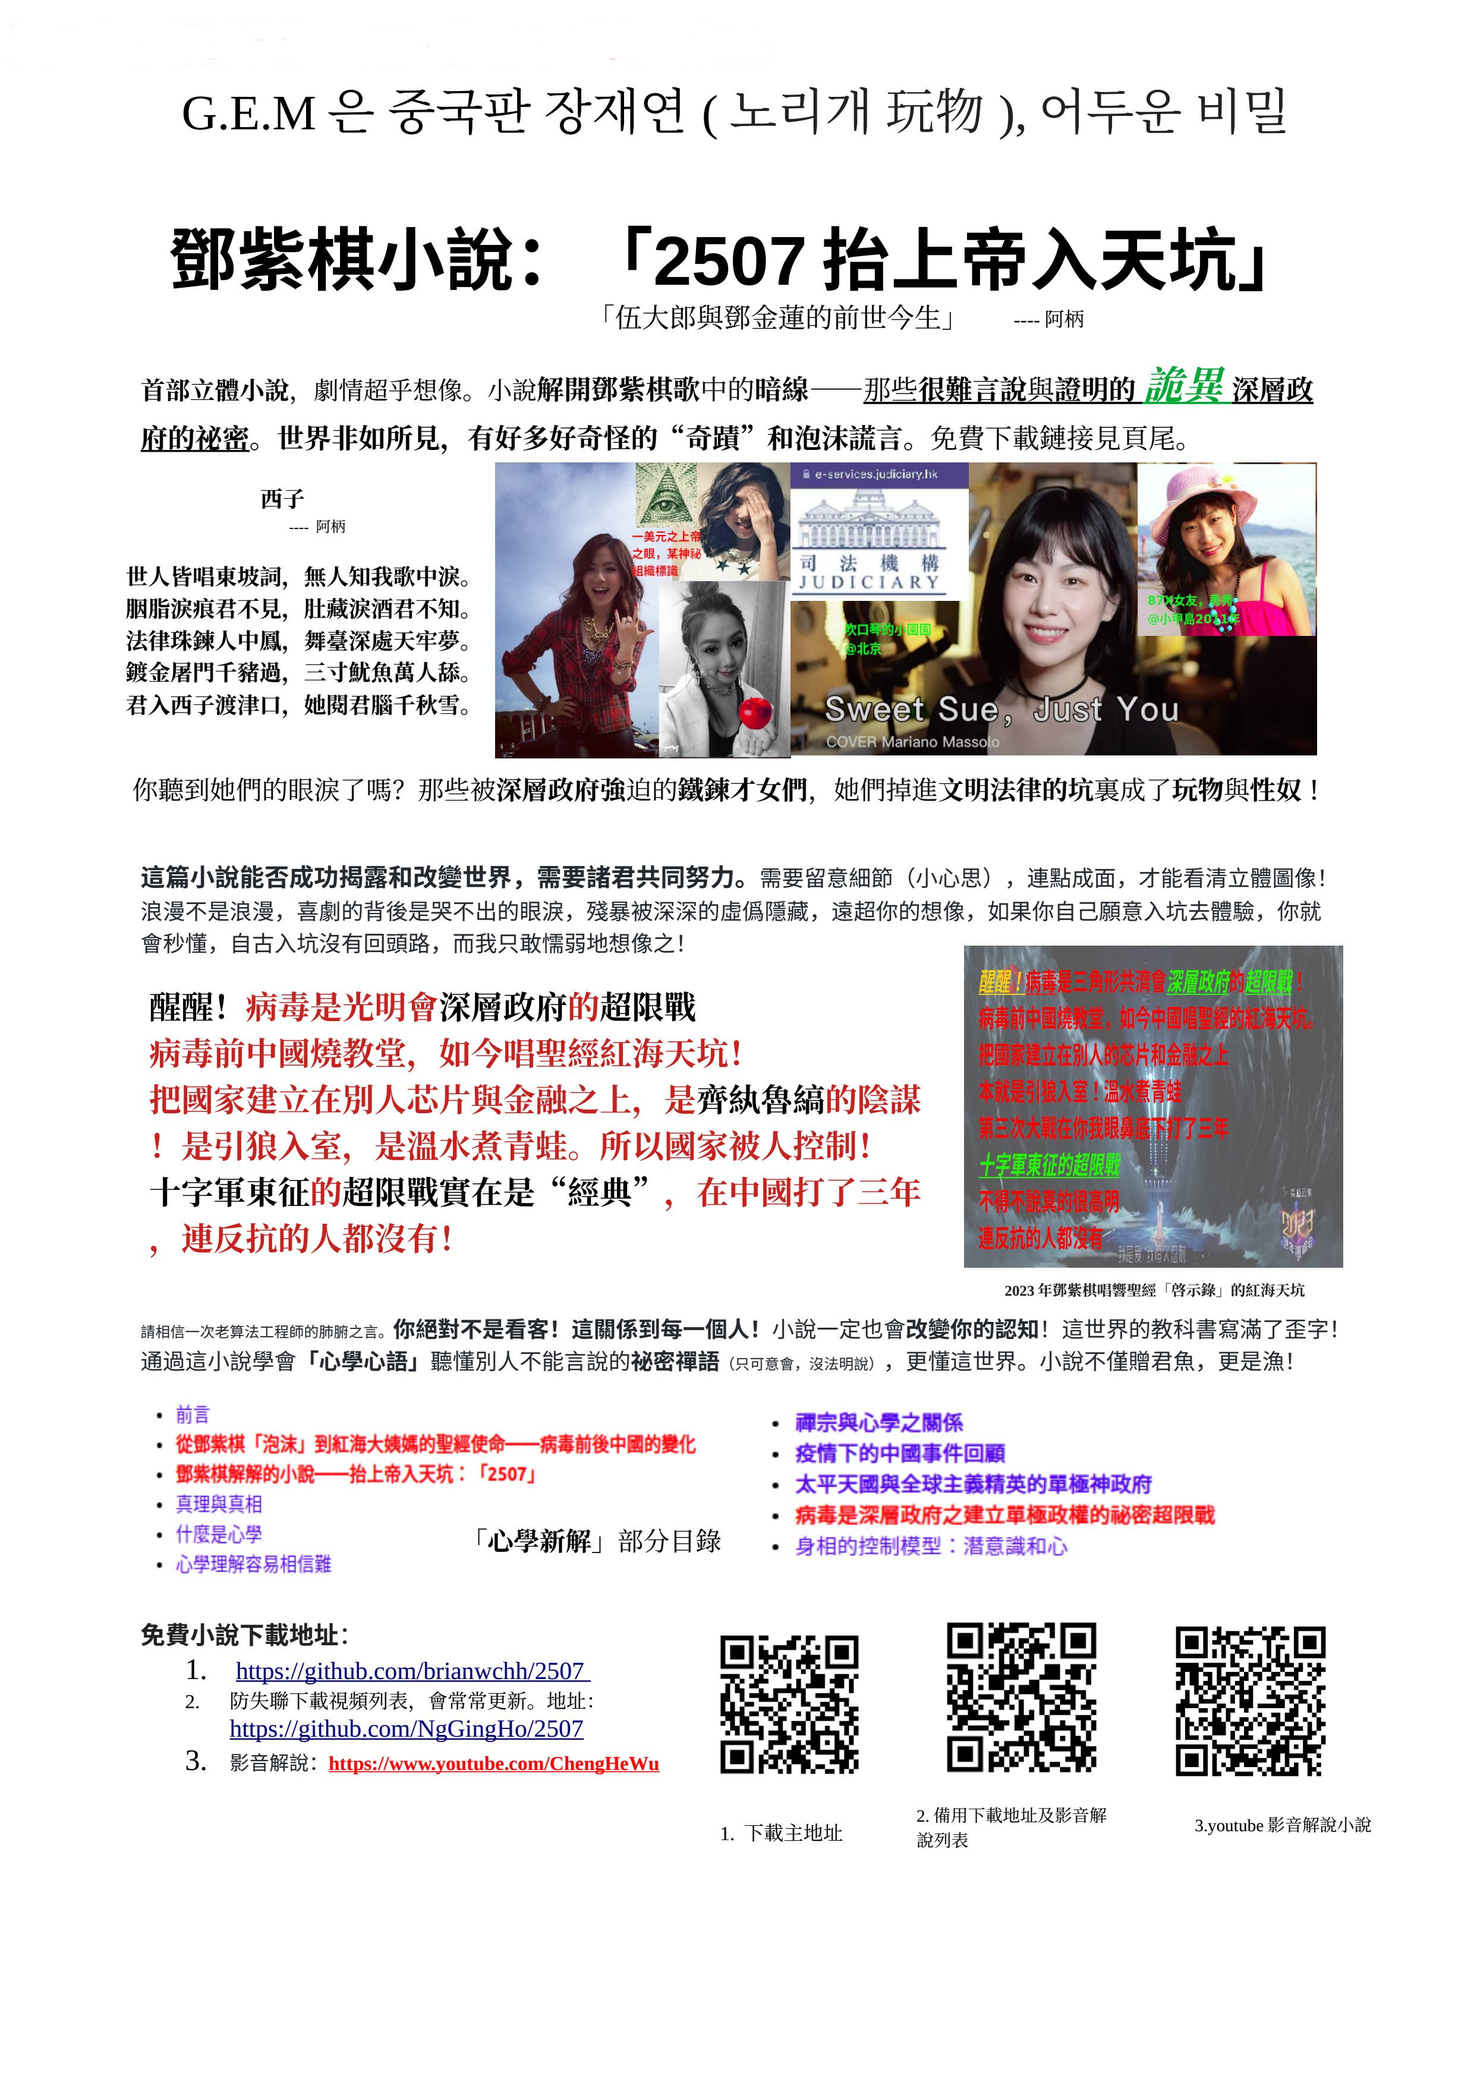
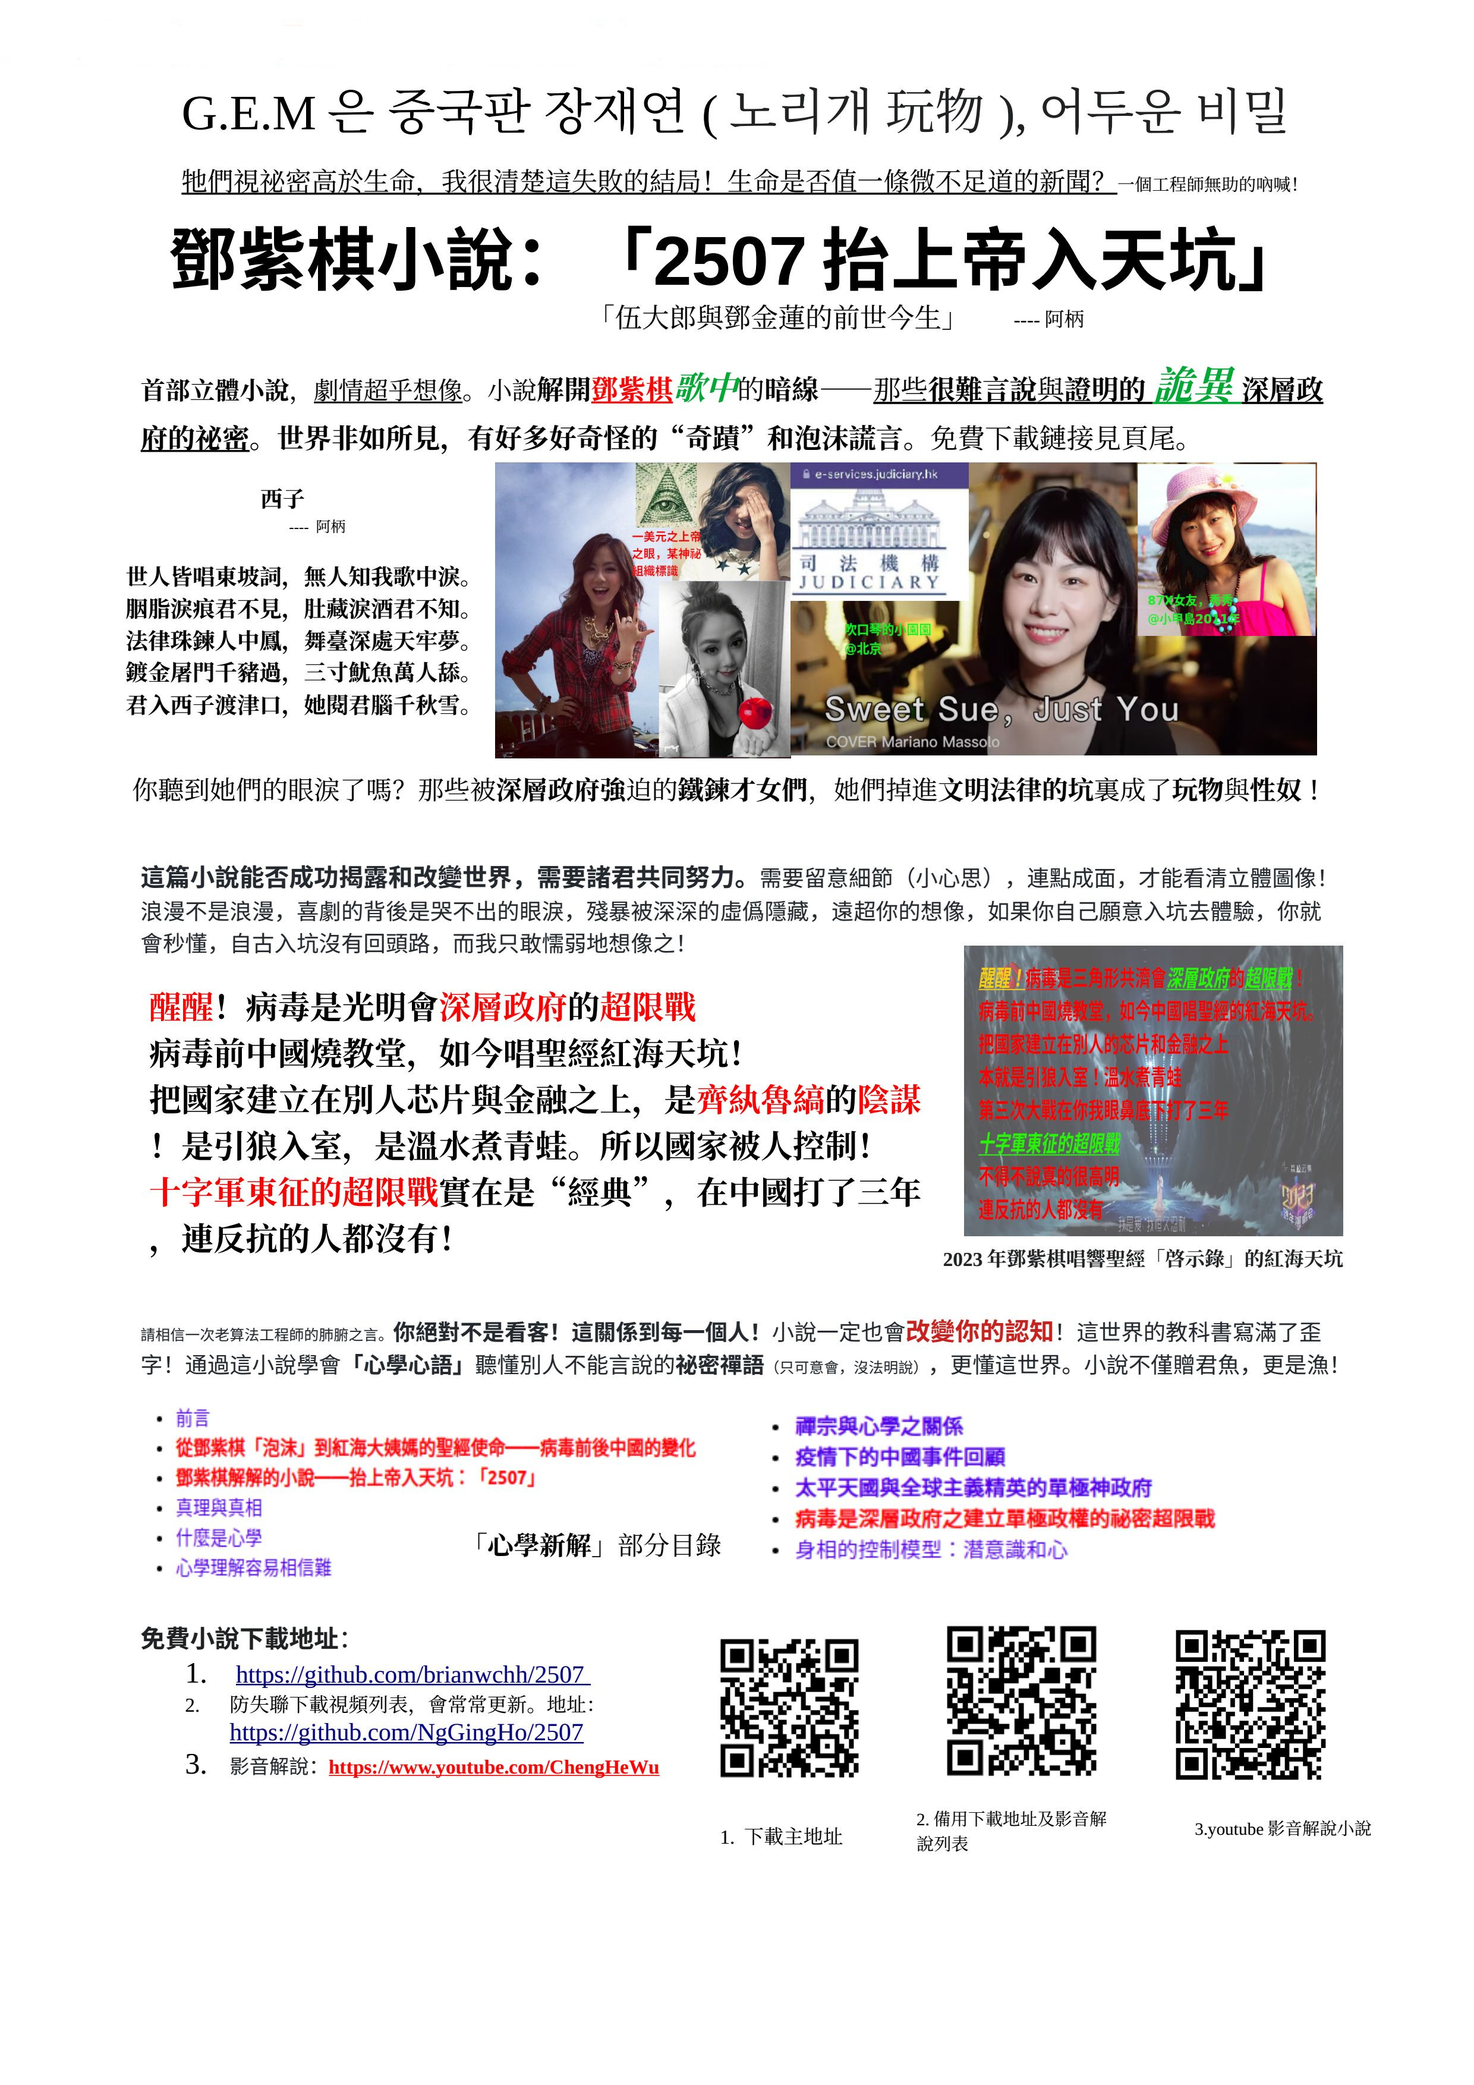
2023.2.14.1.47

diff --git a/readme.html b/readme.html
@@ -433,7 +433,7 @@ code {
 <li>
 <h2 id="%E5%B0%8F%E8%AA%AA%E5%B0%8E%E8%AE%80">小說導讀</h2>
 <blockquote>
-<p>2022年美國國會證實了UFO現象的存在，且承認人類目前的科技無法解釋這現象！很多人可能沒留意此信息的重要性！以前的慣例都是污名化爆料者，讓人覺得她/他是腦子有問題。而今有些東西似乎是想讓人知道牠們的存在了！？可能是隱藏了夠久，已經胸有成竹喫定了！這世界確實是存在很多未知與“奇蹟”。我們的認知是認知本身最大的障礙！一出生就寫滿了歪字、陳見與自負！</br></br>此小說遵循一種理科生的證明思路：低概率的偶然隨機頻頻發生時，就成了一種喚醒（wake up）的共鳴信號，是一種有“人”跟你打招呼的特殊信號！如GEM凳子棋在<a href="https://youtu.be/FUxHsgW4_wU">get everybody moving</a>中唱的wake up。<strong>因此小說里羅列了許多這樣的僞隨機的偶然巧合事件。</strong> 牠們會教目標聽懂牠們的禪語，這樣成員很難自證或告發，比如韓國電影「玩物」原型的女明星，至死只有一個筆記本，連個錄音錄像文字書信之類的證據都沒有。反而是這些掉坑里的人，卻有一大堆自己的豔照門和法律證據在牠們手上，隨隨便便拿個別的比如商業證據，比如強姦證據，等等，都能讓被控制的人坐大牢幾十年且身敗名裂！牠們一直存在，一直在吊傀儡，卻把自己污名化成一種玩笑和陰謀論的對象，避開了聚光燈，牠們可以很安全地存在。</br></br>我知道大部分人只聽權威認證的聲音，下文中我也舉了好幾個與央視節目的一些巧合，文中有具體介紹，或許你也會有興趣瞭解下這其中的巧合之意。我和鄧紫棋的很多巧合，卻是大多超出我們自己的主觀意願。</br></br> 陽謀能否戰勝陰謀，需要大家的另一種的覺醒和共同努力抗爭！</br></br>鄧紫棋與其他歌手不同之處是，她幾乎所有的歌里藏着一個跟金魚有關的祕密！只是其中的祕密，順着明線理解是泡沫的謊言，而其中埋藏的小心思暗線才是她說不出的殘酷現實。這裏會一併解開其中的暗線祕密！歌曲裏面藏祕密，也應該是有史以來第一人吧。</br></br></p>
+<p>2022年美國國會證實了UFO現象的存在，且承認人類目前的科技無法解釋這現象！很多人可能沒留意此信息的重要性！以前的慣例都是污名化爆料者，讓人覺得她/他是腦子有問題。而今有些東西似乎是想讓人知道牠們的存在了！？可能是隱藏了夠久，已經胸有成竹喫定了！這世界確實是存在很多未知與“奇蹟”。我們的認知是認知本身最大的障礙！一出生就寫滿了歪字、陳見與自負！</br></br>此小說遵循一種理科生的證明思路：<u>低概率的偶然隨機頻頻發生時，就成了一種刻意的安排，即一種喚醒（wake up）的共鳴信號，是一種有“人”跟你打招呼的特殊信號！</u>如GEM凳子棋在<a href="https://youtu.be/FUxHsgW4_wU">get everybody moving</a>中唱的wake up。<strong>因此小說里羅列了許多這樣的僞隨機的偶然巧合事件。</strong> 牠們會教目標聽懂牠們的禪語，這樣成員很難自證或告發，比如韓國電影「玩物」原型的女明星，至死只有一個筆記本，連個錄音錄像文字書信之類的證據都沒有。反而是這些掉坑里的人，卻有一大堆自己的豔照門和法律證據在牠們手上，隨隨便便拿個別的比如商業證據，比如強姦證據，等等，都能讓被控制的人坐大牢幾十年且身敗名裂！牠們一直存在，一直在吊傀儡，卻把自己污名化成一種玩笑和陰謀論的對象，避開了聚光燈，牠們可以很安全地存在。</br></br>我知道大部分人只聽權威認證的聲音，下文中我也舉了好幾個與央視節目的一些巧合，文中有具體介紹，或許你也會有興趣瞭解下這其中的巧合之意。我和鄧紫棋的很多巧合，卻是大多超出我們自己的主觀意願。</br></br> 陽謀能否戰勝陰謀，需要大家的另一種的覺醒和共同努力抗爭！</br></br>鄧紫棋與其他歌手不同之處是，她幾乎所有的歌里藏着一個跟金魚有關的祕密！只是其中的祕密，順着明線理解是泡沫的謊言，而其中埋藏的小心思暗線才是她說不出的殘酷現實。這裏會一併解開其中的暗線祕密！歌曲裏面藏祕密，也應該是有史以來第一人吧。</br></br></p>
 </blockquote>
 <ul>
 <li><em><strong>你相信有人是帶着前世的記憶來到這個世界的嗎？</strong></em></li>
@@ -1375,7 +1375,7 @@ code {
   <image class="FlexImage"   src='./images/迪斯尼公仔.png'/>
   <div class="FlexSide" ></div>
   </div> 
-<p><span> 3個瓶子的牛屄，怎麼進去的？ </span></p>
+<p><span> 3<sub>(個瓶子)</sub>的牛屄，怎麼進去的？ </span></p>
   </div>
   <!-- image area, flex to make it center,it may not work for github, for html and pdf rendering only -->
   <div align="center" style="page-break-inside: avoid; margin-top:1px; margin-bottom:1px;"> <!-- pictureWrapper_div add this only to make the bendan github understand -->
@@ -1403,6 +1403,15 @@ code {
   <div class="FlexSide" ></div>
   </div> 
 <p><span> <strong>蟬語</strong> </span></p>
+  </div>
+  <!-- image area, flex to make it center,it may not work for github, for html and pdf rendering only -->
+  <div align="center" style="page-break-inside: avoid; margin-top:1px; margin-bottom:1px;"> <!-- pictureWrapper_div add this only to make the bendan github understand -->
+  <div class="ImageWrapperFlex" >
+  <div class="FlexSide"  ></div>
+  <image class="FlexImage"   src='./images/呆哥.jpeg'/>
+  <div class="FlexSide" ></div>
+  </div> 
+<p><span> <sub>民主是世界上大多數人都沒看懂卻被當槍使當炮灰的話題。金融的慈禧皇權不倒，世界哪有真正的民主！我們選的不過是百萬英鎊的笑話！臺上選的都是深層政府的鐵鍊男與鐵鍊女！民主是個智商題！可是多數人對民主的理解都只是一人一票，身體卻對廁紙做的紙幣非常誠實，誠實到出賣靈魂，誠實到無腦！當你發現自己在幫真正的屠夫畜生數錢時，而且還數了好多年時，有何感想！？金融如果不分家，沒有大三權分離限制資本與宗教社團，每一個國家都會和歐洲一樣，淪爲世界廁紙的後花園！靠印廁紙養着龐大的3軍團，然後聰明地把成本通過資本的運作轉嫁到每個人頭上！你辛苦創業賣產品，最終公司還是牠們空手印貞操，幾下所謂的資本運作，就聰明地打劫走了！跟超限戰一樣，喫瓜的猴子還拍手稱快！根本就看不懂！只是感嘆那個百萬英鎊的傻子不是他！政治不僅是信息戰，更是智商的對決！世界的皇權早就從皇帝慢慢隱性地變成世界資本家的深層政府，從臺前慢慢躲在幕後，而幫牠們消滅皇權的是我們，幫牠們數鈔票的也是我們，以後被人工智能替換的也是我們！而我們多數人到死都不知道牠們是誰！ </br></br> <strong>韭菜嶺</strong> </br> </br> 君擁韭菜嶺</br>長髮王八眷</br>盯眼吹大泡</br>天上建人間</br>一波抓一波</br>只需一坨屎</sub></span></p>
   </div>
   </br>
 </li>

diff --git a/readme.md b/readme.md
@@ -93,7 +93,7 @@
 
 - ## 小說導讀
 
-    > 2022年美國國會證實了UFO現象的存在，且承認人類目前的科技無法解釋這現象！很多人可能沒留意此信息的重要性！以前的慣例都是污名化爆料者，讓人覺得她/他是腦子有問題。而今有些東西似乎是想讓人知道牠們的存在了！？可能是隱藏了夠久，已經胸有成竹喫定了！這世界確實是存在很多未知與“奇蹟”。我們的認知是認知本身最大的障礙！一出生就寫滿了歪字、陳見與自負！</br></br>此小說遵循一種理科生的證明思路：低概率的偶然隨機頻頻發生時，就成了一種喚醒（wake up）的共鳴信號，是一種有“人”跟你打招呼的特殊信號！如GEM凳子棋在[get everybody moving](https://youtu.be/FUxHsgW4_wU)中唱的wake up。**因此小說里羅列了許多這樣的僞隨機的偶然巧合事件。** 牠們會教目標聽懂牠們的禪語，這樣成員很難自證或告發，比如韓國電影「玩物」原型的女明星，至死只有一個筆記本，連個錄音錄像文字書信之類的證據都沒有。反而是這些掉坑里的人，卻有一大堆自己的豔照門和法律證據在牠們手上，隨隨便便拿個別的比如商業證據，比如強姦證據，等等，都能讓被控制的人坐大牢幾十年且身敗名裂！牠們一直存在，一直在吊傀儡，卻把自己污名化成一種玩笑和陰謀論的對象，避開了聚光燈，牠們可以很安全地存在。</br></br>我知道大部分人只聽權威認證的聲音，下文中我也舉了好幾個與央視節目的一些巧合，文中有具體介紹，或許你也會有興趣瞭解下這其中的巧合之意。我和鄧紫棋的很多巧合，卻是大多超出我們自己的主觀意願。</br></br> 陽謀能否戰勝陰謀，需要大家的另一種的覺醒和共同努力抗爭！</br></br>鄧紫棋與其他歌手不同之處是，她幾乎所有的歌里藏着一個跟金魚有關的祕密！只是其中的祕密，順着明線理解是泡沫的謊言，而其中埋藏的小心思暗線才是她說不出的殘酷現實。這裏會一併解開其中的暗線祕密！歌曲裏面藏祕密，也應該是有史以來第一人吧。</br></br>
+    > 2022年美國國會證實了UFO現象的存在，且承認人類目前的科技無法解釋這現象！很多人可能沒留意此信息的重要性！以前的慣例都是污名化爆料者，讓人覺得她/他是腦子有問題。而今有些東西似乎是想讓人知道牠們的存在了！？可能是隱藏了夠久，已經胸有成竹喫定了！這世界確實是存在很多未知與“奇蹟”。我們的認知是認知本身最大的障礙！一出生就寫滿了歪字、陳見與自負！</br></br>此小說遵循一種理科生的證明思路：<u>低概率的偶然隨機頻頻發生時，就成了一種刻意的安排，即一種喚醒（wake up）的共鳴信號，是一種有“人”跟你打招呼的特殊信號！</u>如GEM凳子棋在[get everybody moving](https://youtu.be/FUxHsgW4_wU)中唱的wake up。**因此小說里羅列了許多這樣的僞隨機的偶然巧合事件。** 牠們會教目標聽懂牠們的禪語，這樣成員很難自證或告發，比如韓國電影「玩物」原型的女明星，至死只有一個筆記本，連個錄音錄像文字書信之類的證據都沒有。反而是這些掉坑里的人，卻有一大堆自己的豔照門和法律證據在牠們手上，隨隨便便拿個別的比如商業證據，比如強姦證據，等等，都能讓被控制的人坐大牢幾十年且身敗名裂！牠們一直存在，一直在吊傀儡，卻把自己污名化成一種玩笑和陰謀論的對象，避開了聚光燈，牠們可以很安全地存在。</br></br>我知道大部分人只聽權威認證的聲音，下文中我也舉了好幾個與央視節目的一些巧合，文中有具體介紹，或許你也會有興趣瞭解下這其中的巧合之意。我和鄧紫棋的很多巧合，卻是大多超出我們自己的主觀意願。</br></br> 陽謀能否戰勝陰謀，需要大家的另一種的覺醒和共同努力抗爭！</br></br>鄧紫棋與其他歌手不同之處是，她幾乎所有的歌里藏着一個跟金魚有關的祕密！只是其中的祕密，順着明線理解是泡沫的謊言，而其中埋藏的小心思暗線才是她說不出的殘酷現實。這裏會一併解開其中的暗線祕密！歌曲裏面藏祕密，也應該是有史以來第一人吧。</br></br>
 
     - ***你相信有人是帶着前世的記憶來到這個世界的嗎？***    
     - ***你相信[**「平行世界」**](https://youtu.be/JW52KtyGMBI)嗎？***  
@@ -1451,7 +1451,7 @@
     </div> 
 
 
-    <span> 3個瓶子的牛屄，怎麼進去的？ </span>
+    <span> 3<sub>(個瓶子)</sub>的牛屄，怎麼進去的？ </span>
 
     </div>
 
@@ -1488,6 +1488,18 @@
     </div> 
 
     <span> **蟬語** </span>
+
+    </div>
+
+    <!-- image area, flex to make it center,it may not work for github, for html and pdf rendering only -->
+    <div align="center" style="page-break-inside: avoid; margin-top:1px; margin-bottom:1px;"> <!-- pictureWrapper_div add this only to make the bendan github understand -->
+    <div class="ImageWrapperFlex" >
+    <div class="FlexSide"  ></div>
+    <image class="FlexImage"   src='./images/呆哥.jpeg'/>
+    <div class="FlexSide" ></div>
+    </div> 
+
+    <span> <sub>民主是世界上大多數人都沒看懂卻被當槍使當炮灰的話題。金融的慈禧皇權不倒，世界哪有真正的民主！我們選的不過是百萬英鎊的笑話！臺上選的都是深層政府的鐵鍊男與鐵鍊女！民主是個智商題！可是多數人對民主的理解都只是一人一票，身體卻對廁紙做的紙幣非常誠實，誠實到出賣靈魂，誠實到無腦！當你發現自己在幫真正的屠夫畜生數錢時，而且還數了好多年時，有何感想！？金融如果不分家，沒有大三權分離限制資本與宗教社團，每一個國家都會和歐洲一樣，淪爲世界廁紙的後花園！靠印廁紙養着龐大的3軍團，然後聰明地把成本通過資本的運作轉嫁到每個人頭上！你辛苦創業賣產品，最終公司還是牠們空手印貞操，幾下所謂的資本運作，就聰明地打劫走了！跟超限戰一樣，喫瓜的猴子還拍手稱快！根本就看不懂！只是感嘆那個百萬英鎊的傻子不是他！政治不僅是信息戰，更是智商的對決！世界的皇權早就從皇帝慢慢隱性地變成世界資本家的深層政府，從臺前慢慢躲在幕後，而幫牠們消滅皇權的是我們，幫牠們數鈔票的也是我們，以後被人工智能替換的也是我們！而我們多數人到死都不知道牠們是誰！ </br></br> **韭菜嶺** </br> </br> 君擁韭菜嶺</br>長髮王八眷</br>盯眼吹大泡</br>天上建人間</br>一波抓一波</br>只需一坨屎</sub></span>
 
     </div>
 
